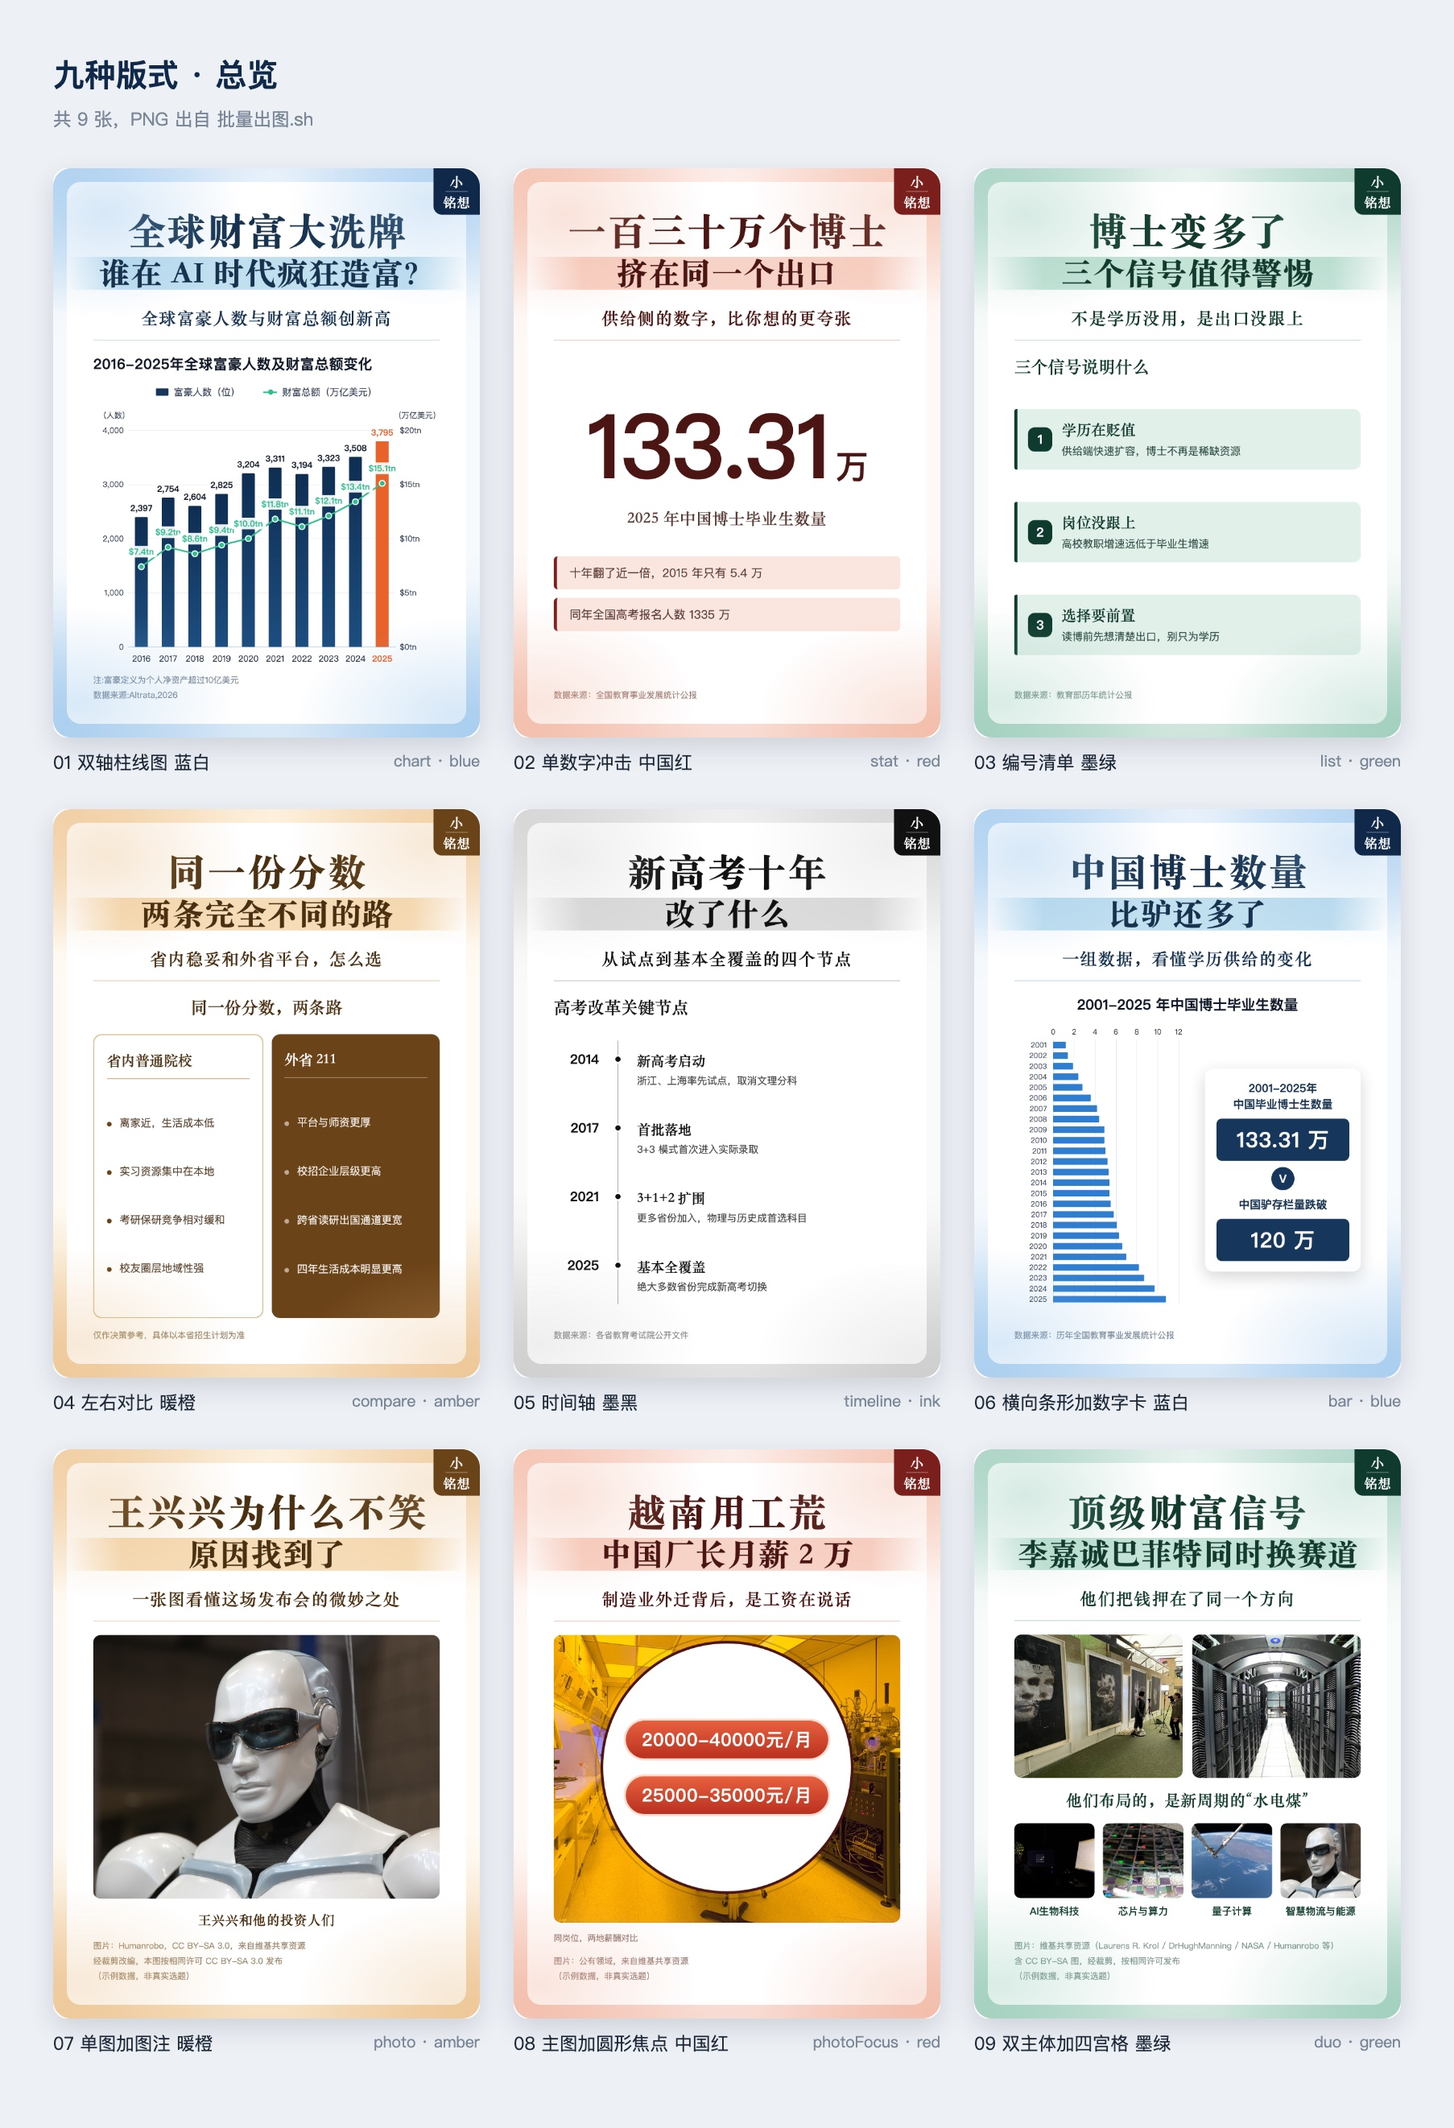
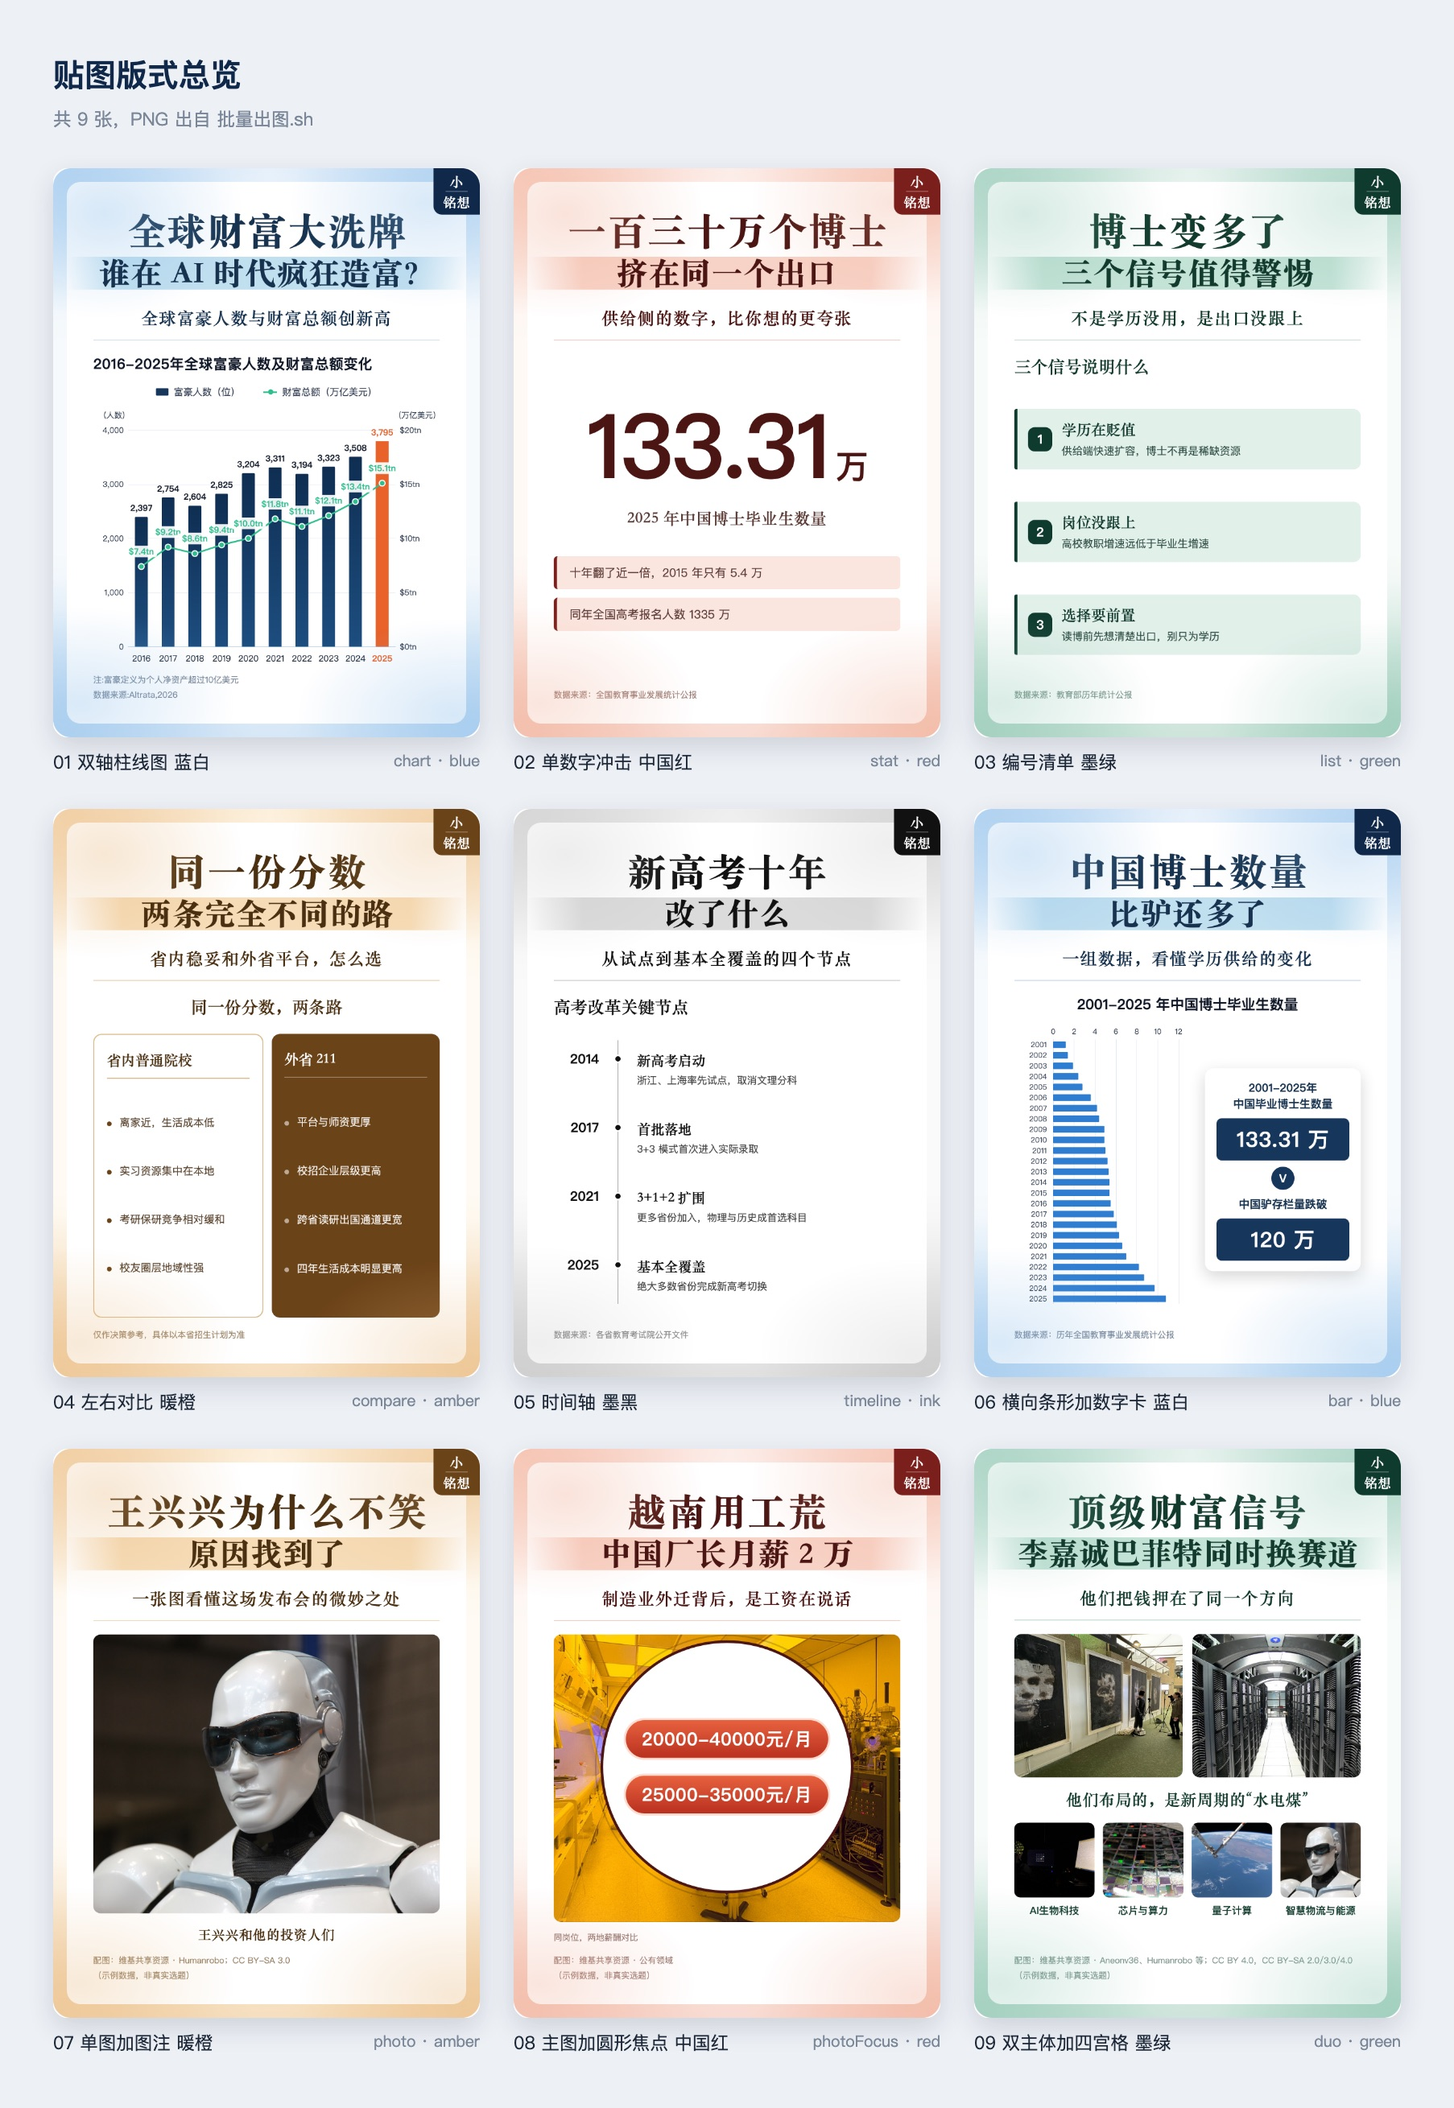
署名口径收紧：脚注只写来源/作者/许可名，不再抄许可条款原文
「经裁剪，按相同许可发布」这类话读者看不懂，它是要留档的事实而不是要给读者看的信息。
出处改为项目里的配图署名台账，脚注位置留给读者真正需要的来源信息。

- 说明书 4.4、SKILL.md 铁律 5-6、docs/贴图排版手册 5-6、README、examples/CREDITS.md 同步改口径
- 新增 署名行.js：从数据源扫出真正用到的图（含 quadImgs 数组）→ 查台账 →
  拼好脚注署名行，并报出占多少字宽（超 41 直接提示）
- 示例数据两份 JSON 的 foot 改写，两份预览总览图按新口径重出

diff --git a/署名行.js b/署名行.js
@@ -1,0 +1,218 @@
+#!/usr/bin/env node
+'use strict';
+// 署名行.js —— 生成一条「配图署名行」
+//
+// 用途：
+//   贴图脚注里的配图署名格式固定（来源 + 作者 + 许可），手写容易漏人、写错许可。
+//   这个脚本从数据源收集真正用到的图，去署名台账查作者与许可，拼成一条可直接
+//   贴进 foot 的文本，并报出它占多少字宽（脚注一行上限约 41 汉字 / 76 西文）。
+//
+// 口径：
+//   **只写来源、作者、许可名**。不写「经裁剪，按相同许可发布」这类许可条款原文——
+//   读者不需要，也没人看得懂。裁剪与相同许可的事实照旧记在配图署名台账里，可回溯。
+//
+// 用法：
+//   node 署名行.js 数据源.json
+//   node 署名行.js 数据源.json --out 输出目录/_配文署名.txt
+//   node 署名行.js 数据源.json --台账 配图署名.md --作者上限 3
+//
+// 台账格式：markdown 表格，列序为  本地文件 | 标题或来源 | 作者 | 许可
+//   本地文件列写不写反引号都认；表头行与分隔行会自动跳过。
+//   没查到的图会标「未登记」并以退出码 1 结束，不要带着它出图。
+
+const fs = require('fs');
+const path = require('path');
+
+const IMG_RE = /\.(jpe?g|png|webp|gif|avif|svg)$/i;
+const OWN_RE = /用户素材|自有|自截|自己/;
+
+function parseArgs(argv) {
+  const out = { data: null, ledger: null, out: null, maxAuthors: 2 };
+  for (let i = 0; i < argv.length; i++) {
+    const a = argv[i];
+    if (a === '--台账' || a === '--ledger') out.ledger = argv[++i];
+    else if (a === '--out' || a === '-o') out.out = argv[++i];
+    else if (a === '--作者上限' || a === '--max-authors') out.maxAuthors = Number(argv[++i]) || 0;
+    else if (a === '-h' || a === '--help') out.help = true;
+    else if (!out.data) out.data = a;
+  }
+  return out;
+}
+
+// 递归收集 JSON 里所有像图片路径的字符串。
+// 只在「键名含 img」的分支里收，避免误抓 foot 正文里出现的文件名。
+// 标志位要跟着往下传：quadImgs 是字符串数组，如果只在键那一层判断，
+// 数组里的元素永远收不到（第一版就是这么漏掉四宫格图的）。
+function collectImages(node, acc, inImg) {
+  if (typeof node === 'string') {
+    if (inImg && IMG_RE.test(node)) acc.push(node);
+    return;
+  }
+  if (Array.isArray(node)) { node.forEach((n) => collectImages(n, acc, inImg)); return; }
+  if (node && typeof node === 'object') {
+    for (const [k, v] of Object.entries(node)) {
+      collectImages(v, acc, inImg || /img/i.test(k));
+    }
+  }
+}
+
+function parseLedger(text) {
+  const map = new Map();
+  for (const line of text.split('\n')) {
+    if (!line.trim().startsWith('|')) continue;
+    const cells = line.split('|').map((s) => s.trim());
+    if (cells.length < 5) continue;
+    const file = cells[1].replace(/`/g, '');
+    if (!IMG_RE.test(file)) continue;
+    map.set(path.basename(file), { author: cells[3] || '', license: cells[4] || '' });
+  }
+  return map;
+}
+
+function licInfo(raw) {
+  const t = (raw || '').trim();
+  if (!t) return { fam: '?' };
+  if (OWN_RE.test(t)) return { fam: 'OWN' };
+  if (/CC0/i.test(t)) return { fam: 'CC0' };
+  if (/public\s*domain|公有领域|\bPD\b/i.test(t)) return { fam: 'PD' };
+  const m = t.match(/CC\s*BY(-SA)?\s*([\d.]+)?/i);
+  if (m) return { fam: m[1] ? 'BY-SA' : 'BY', ver: m[2] || '' };
+  return { fam: '?', raw: t };
+}
+
+function sortVer(list) {
+  return [...new Set(list)].sort((a, b) => parseFloat(a) - parseFloat(b));
+}
+
+// 脚注一行的宽度：汉字算 1，半角算 0.5。上限约 41（一行 658px / 16px 字号）。
+function widthOf(s) {
+  let w = 0;
+  for (const ch of s) w += /[\u2e80-\u9fff\uff00-\uffef\u3000-\u303f]/.test(ch) ? 1 : 0.5;
+  return Math.round(w * 10) / 10;
+}
+
+function renderPage(page, ledger, maxAuthors) {
+  const imgs = [];
+  collectImages(page, imgs, false);
+  const uniq = [...new Set(imgs.map((p) => path.basename(p)))];
+
+  if (uniq.length === 0) return { lines: ['（本页无配图，脚注只留数据来源）'], bad: false };
+
+  const authors = [];
+  const byVer = []; const bysaVer = []; let cc0 = false; let pd = false; let own = 0;
+  const unregistered = []; const unknownLic = [];
+
+  for (const f of uniq) {
+    const row = ledger.get(f);
+    if (!row) { unregistered.push(f); continue; }
+    const li = licInfo(row.license);
+    if (li.fam === 'OWN') { own++; continue; }
+    const a = row.author.replace(/^——$/, '').trim();
+    if (a && !authors.includes(a)) authors.push(a);
+    if (li.fam === 'BY') byVer.push(li.ver);
+    else if (li.fam === 'BY-SA') bysaVer.push(li.ver);
+    else if (li.fam === 'CC0') cc0 = true;
+    else if (li.fam === 'PD') pd = true;
+    else unknownLic.push(`${f}（${row.license || '无'}）`);
+  }
+
+  const source = [];
+  if (authors.length) {
+    const shown = maxAuthors > 0 ? authors.slice(0, maxAuthors) : authors;
+    source.push(`维基共享资源 · ${shown.join('、')}${authors.length > shown.length ? ' 等' : ''}`);
+  }
+  if (own) source.push(`自有素材${own > 1 ? ` ${own} 张` : ''}`);
+
+  const licParts = [];
+  if (byVer.length) licParts.push(`CC BY ${sortVer(byVer).join('/')}`);
+  if (bysaVer.length) licParts.push(`CC BY-SA ${sortVer(bysaVer).join('/')}`);
+  if (cc0) licParts.push('CC0');
+  if (pd) licParts.push('公有领域');
+  if (unknownLic.length) licParts.push('许可待核');
+
+  let line = `配图：${source.length ? source.join('；') : '（未登记）'}`;
+  if (licParts.length) line += `；${licParts.join('，')}`;
+
+  const lines = [line];
+  if (typeof page.credit === 'string' && page.credit.trim()) {
+    lines.push(page.credit.trim());
+  }
+  if (unregistered.length) lines.push(`⚠ 台账缺登记：${unregistered.join('、')}`);
+  if (unknownLic.length) lines.push(`⚠ 许可未识别：${unknownLic.join('、')}`);
+
+  return { lines, bad: unregistered.length > 0 || unknownLic.length > 0, main: line };
+}
+
+function main() {
+  const args = parseArgs(process.argv.slice(2));
+  if (args.help || !args.data) {
+    console.log('用法: node 署名行.js 数据源.json [--台账 配图署名.md] [--out 输出.txt] [--作者上限 3]');
+    process.exitCode = args.help ? 0 : 1;
+    return;
+  }
+
+  const dataPath = path.resolve(args.data);
+  if (!fs.existsSync(dataPath)) {
+    console.error(`找不到数据源：${dataPath}`);
+    process.exitCode = 1;
+    return;
+  }
+  const pages = JSON.parse(fs.readFileSync(dataPath, 'utf8'));
+  if (!Array.isArray(pages)) {
+    console.error('数据源应当是数组（每个元素一页）');
+    process.exitCode = 1;
+    return;
+  }
+
+  // 台账查找顺序：显式指定 → 数据源同目录 → 数据源上级目录 → 当前工作目录
+  const dir = path.dirname(dataPath);
+  const candidates = [
+    args.ledger,
+    path.join(dir, '配图署名.md'),
+    path.join(dir, '..', '配图署名.md'),
+    path.join(process.cwd(), '配图署名.md'),
+  ].filter(Boolean);
+  let ledgerPath = null;
+  for (const c of candidates) {
+    if (fs.existsSync(c)) { ledgerPath = c; break; }
+  }
+
+  let ledger = new Map();
+  if (ledgerPath) {
+    ledger = parseLedger(fs.readFileSync(ledgerPath, 'utf8'));
+    console.error(`台账：${ledgerPath}（已登记 ${ledger.size} 张）`);
+  } else {
+    console.error('警告：没找到配图署名台账，所有图都会标成「未登记」。');
+  }
+
+  const blocks = [];
+  let bad = 0;
+  for (const page of pages) {
+    const r = renderPage(page, ledger, args.maxAuthors);
+    if (r.bad) bad++;
+    const w = r.main ? widthOf(r.main) : 0;
+    const hint = r.main
+      ? `\n   （约 ${w} 字宽 / 一行上限 41${w > 41 ? ' —— 超了，砍作者或用 --作者上限 1' : ''}）`
+      : '';
+    blocks.push(`── ${page.name || '(未命名)'} ──\n${r.lines.join('\n')}${hint}`);
+  }
+
+  const text = blocks.join('\n\n') + '\n';
+
+  if (args.out) {
+    const outPath = path.resolve(args.out);
+    fs.mkdirSync(path.dirname(outPath), { recursive: true });
+    fs.writeFileSync(outPath, text);
+    console.log(text);
+    console.error(`已写入 ${outPath}`);
+  } else {
+    console.log(text);
+  }
+
+  if (bad) {
+    console.error(`\n有 ${bad} 页存在未登记或未识别的图，出图前请在台账里补齐。`);
+    process.exitCode = 1;
+  }
+}
+
+main();

diff --git a/README.md b/README.md
@@ -99,8 +99,9 @@ node 找图.js pexels-get "8199659" img 1600
 Pexels 的 key 不写进脚本，按顺序找：环境变量 `PEXELS_API_KEY` → `~/.workbuddy/pexels.key` → 项目内 `.pexels-key`。
 
 **署名是使用条件，不是礼貌**：CC BY / CC BY-SA 必须署名作者，CC0 / 公有领域不强制。
-CC BY-SA 还多一层「传染性」——裁一刀就算改编，改编稿要以相同许可发布，本工具统一在脚注里补一行说明。
-具体规则和三个图源的取舍见 [`说明书.md`](说明书.md) 第四节。
+脚注只写三样 —— 来源、作者、许可名（`配图：维基共享资源 · N509FZ；CC BY-SA 4.0`），
+许可条款原文（「经裁剪，按相同许可发布」之类）不进脚注，留在 `配图署名.md` 台账里。
+`node 署名行.js 数据源.json` 能自动拼出这行并报出字宽。具体规则和各图源的取舍见 [`说明书.md`](说明书.md) 第四节。
 
 ## 目录结构
 
@@ -115,6 +116,7 @@ gzh-tietu-studio/
 ├── 导出SVG.js                 # 导出可编辑 SVG（图片 base64 内嵌）
 ├── 找图.js                    # 维基共享 / NASA / Pexels 取图；page/url 抓官方媒体图
 ├── 查署名.js                  # 按 Commons 标题补查作者与许可（只读元数据，不下载图）
+├── 署名行.js                   # 生成脚注署名行（扫图 → 查台账 → 拼好），并报出字宽
 ├── 探测分类.js / 列分类.js      # 挖中国题材：批量试哪些分类有图 / 列出某分类全部文件名
 ├── 生成总览.js                # 九宫格总览页（只出 HTML）
 ├── 总览截图.js / 总览截图.sh   # 总览页存成 PNG（先量页高再截，不留白不截断）
@@ -140,6 +142,11 @@ gzh-tietu-studio/
 
 ## 更新记录
 
+- **2026-09-16** 改署名口径：**脚注只写来源、作者、许可名**，不再抄许可条款原文。
+  「经裁剪，按相同许可发布」这类黑话读者看不懂——它是要留档的事实，留在 `配图署名.md` /
+  `examples/CREDITS.md` 台账里即可（2026-09-14 那条「在脚注补一行说明」的做法作废）。
+  新增 `署名行.js`：从数据源扫出真正用到的图（含 `quadImgs` 数组）、查台账、拼好这行，
+  并报出占多少字宽（超 41 直接提示）。示例数据与两份预览图同步重出。
 - **2026-09-15 · 三** 定两条口径、加三个选图小工具：
   ① **`duo` 的四宫格默认给满 `quadImgs`**——不给会退回「首字大卡」（四个色块各压一个大号汉字），
   那是兜底样式；配套提醒：竖构图照片别放宫格、`duo` 共 6 张图会挤爆 3 行脚注。
@@ -162,9 +169,8 @@ gzh-tietu-studio/
   并让 HTML 与 SVG 两条路表现一致。另外 `批量出图.sh` 在 Chrome 自身沙箱初始化失败时自动回退 `--no-sandbox`，
   顺带补回 `找图.js` 里漏同步的 0 字节残留清理。
 - **2026-09-14** 首次发布：9 种版式 / 5 套配色 / 三路输出（PNG、SVG、九宫格总览）/ 三个图源（维基共享、NASA、Pexels）。
-- **2026-09-14 · 修订** 统一 CC BY-SA 的署名处理：BY-SA 图被裁剪后，`foot` 里补一行
-  「经裁剪改编，本图按相同许可 CC BY-SA x.0 发布」；示例数据、示例输出、SVG、预览图同步更新。
-  同时明确脚注**最多 3 行**（一行约 41 个汉字 / 76 个西文字符）。
+- **2026-09-14 · 修订**（署名写法**已由 2026-09-16 那条取代**）曾约定 BY-SA 图被裁剪后在 `foot` 里补一行
+  「经裁剪改编，本图按相同许可 CC BY-SA x.0 发布」。同时明确脚注**最多 3 行**（一行约 41 个汉字 / 76 个西文字符）。
 
 ## 许可
 

diff --git a/docs/贴图排版手册.md b/docs/贴图排版手册.md
@@ -242,13 +242,14 @@ echo "你的key" > ~/.workbuddy/pexels.key && chmod 600 ~/.workbuddy/pexels.key
 5. **图多的时候，署名只列需要署名的那几个**。四宫格 + 双主体最多 6 张图，脚注**最多 3 行**（一行约 41 个汉字 / 76 个西文字符），超了会折行、把内容区顶小。规则是：
    - CC BY / CC BY-SA：**必须署名**（作者名）
    - CC0 / 公有领域：不强制署名。图多时可以不占行，完整来源写进 `examples/CREDITS.md` 留档即可
-   - 只列一次作者名即可，许可名合并成一组 `CC BY 2.0 / 4.0，CC BY-SA 3.0 / 4.0`
-   - BY-SA 的「相同许可」说明并进许可行，别单独占一行
+   - 作者只列前 2 个 + 「等」，许可名合并成一组 `CC BY-SA 3.0/4.0`
+   - 这一行有现成的生成器：`node 署名行.js 数据源.json` 会扫出数据里真正用到的图、
+     去台账查作者与许可、拼好这行，并报出占多少字宽（超 41 直接提示）
 
-6. **CC BY-SA 的图有「传染性」，裁一刀就算改编**。BY-SA 是「相同方式共享」：改编后的作品（也就是这张贴图）按条款要以同样许可发布——公众号贴图一般不这么干。本工具的统一做法是**照常裁剪 + 在 foot 里补一行**：
-   - 单张 BY-SA：`经裁剪改编，本图按相同许可 CC BY-SA 3.0 发布`
-   - 多张混许可：并进许可行，写 `…；BY-SA 图经裁剪，按相同许可发布`
-   - 能选就优先 **CC BY / CC0 / 公有领域**（没有传染性，署名还更短）
+6. **脚注只写来源、作者、许可名三样，别把许可条款抄进去**。`配图：维基共享资源 · N509FZ；CC BY-SA 4.0` 就够了。
+   CC BY-SA 的图照常裁剪使用，但**「经裁剪，按相同许可发布」这类话不要写进脚注**——读者看不懂，
+   它是要留档的事实而不是要给读者看的信息。裁剪与相同许可记在 `配图署名.md` 台账里，需要追溯时查台账。
+   - 能选就优先 **CC BY / CC0 / 公有领域**（署名更短，也没有再许可的负担）
    - 商业投放、品牌稿这类正式场合，换成 Pexels（免署名、可商用、可裁剪）或自采图
 
 `photoFocus` 最容易翻车：白圆几乎盖满画面，选一张主体正好在中间的图（比如人像特写），圆一压就全没了。
